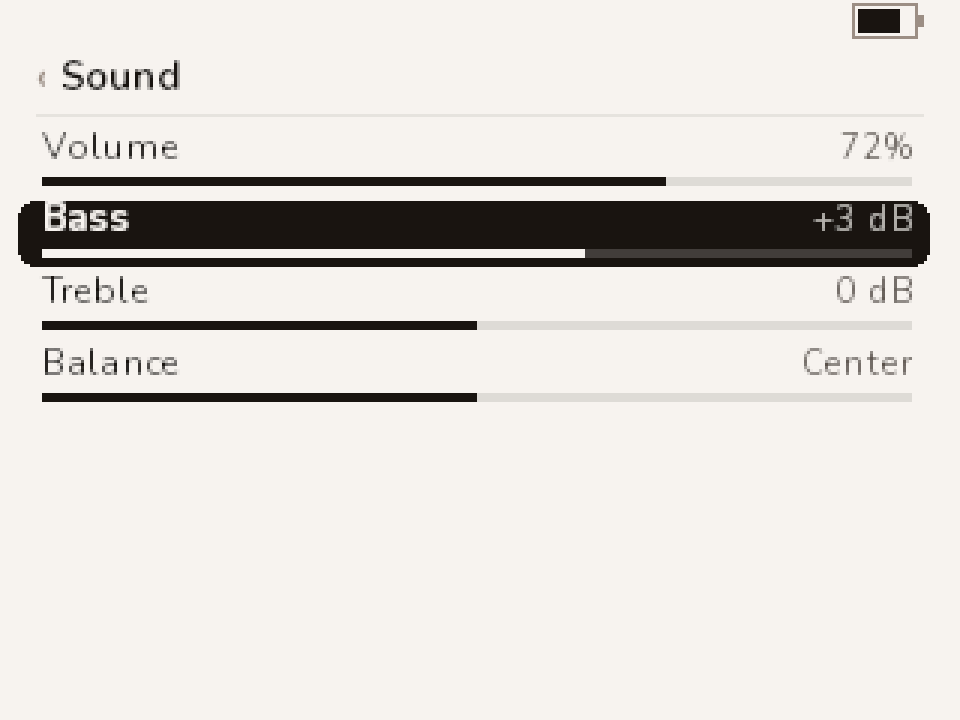
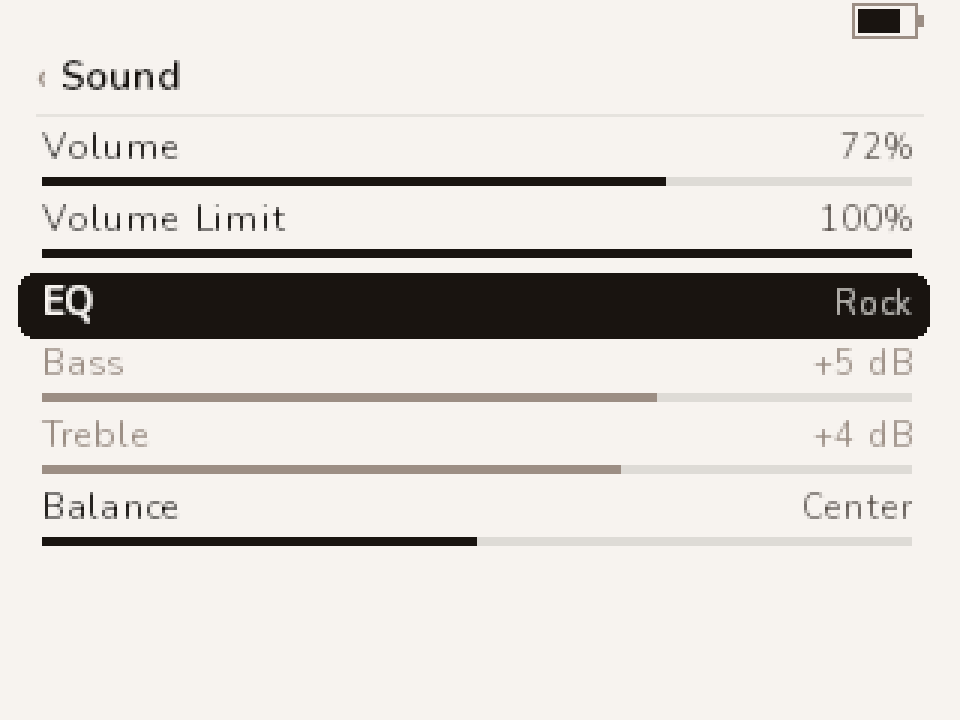
docs: the Volume Limit and the EQ presets, in the guide and the gallery
The user guide's Sound bullet becomes four: what the limit does (the
triangle, the 10% floor, that it is not a lock and not a certification),
what the eighteen EQ values are, what a boosting curve costs in level, and
why Bass and Treble grey out under a preset. The level bullet gives the
real numbers — 3 to 7 dB by preset, up to 12 dB for Bass or Treble at
maximum — because "slightly quieter" was not true, and it says outright
that Loudness, at 7 dB, is the quietest setting on the list despite its
name. Now Playing's Volume paragraph gains the marker, with a new
volume_limit.png beside volume.png.

render.py mirrors both painters: volume_overlay takes the limit and draws
the same three rects, screen_sound draws six rows with a SELECT row and
the locked look, and screen_volume_limit is the plate at a limit of 60.
sound.png (EQ Rock, Bass/Treble greyed) and settings.gif regenerated; the
build-stamped stills deliberately left alone.

STATUS gets the dated UNFLASHED entry with the bench list, now including a
datasheet check of its own for the EQ2-EQ4 centres and the EQxBW polarity,
and the three things that can only be settled on the device: those codes,
where the digital volume sits relative to the EQ, and whether the
ADC->DAC path flip pops.

Changed region(s): [[0.0, 0.275, 0.9688, 0.7639]]

diff --git a/docs/screens/render.py b/docs/screens/render.py
@@ -862,7 +862,7 @@ def screen_detail(sel=DETAIL_SEL):
 
 
 def _now_playing_base(vol_overlay=None, elapsed=73, total=182, locked=False,
-                      sleep=None):
+                      sleep=None, vol_limit=100):
     sc = Screen()
     # top status row
     sc.text(12, 15, "Now Playing", bold_11, INK)
@@ -899,7 +899,7 @@ def _now_playing_base(vol_overlay=None, elapsed=73, total=182, locked=False,
     elif fw > 0:
         sc.fill_rect(pbx, by, fw, bh, INK)
     if vol_overlay is not None:
-        volume_overlay(sc, vol_overlay)
+        volume_overlay(sc, vol_overlay, vol_limit)
     return sc
 
 
@@ -926,7 +926,7 @@ def draw_speaker(sc, sx, sy, c, vol):
         arc(9, 5)
 
 
-def volume_overlay(sc, vol):
+def volume_overlay(sc, vol, limit=100):
     PX, PY, PW, PH = 60, 101, 200, 32
     sc.fill_round_rect_aa(PX, PY, PW, PH, 8, PLATE)
     draw_speaker(sc, PX + 16, PY + PH // 2, INK, vol)
@@ -937,6 +937,14 @@ def volume_overlay(sc, vol):
     sc.fill_rect(bx, by, bw, bh, TRK)
     fw = max(0, min(bw, bw * vol // 100))
     sc.fill_rect(bx, by, fw, bh, INK)
+    # Volume Limit marker: a 5x3 triangle, apex down, on the track's top edge
+    # at the ceiling (main.c volume_overlay_render). The bar keeps its 0..100
+    # scale, so the marker is where the wheel stops.
+    if limit < 100:
+        mx = bx + bw * limit // 100
+        sc.fill_rect(mx - 2, by - 4, 5, 1, INK)
+        sc.fill_rect(mx - 1, by - 3, 3, 1, INK)
+        sc.fill_rect(mx, by - 2, 1, 1, INK)
     sc.text_right(PX + PW - 14, PY + PH // 2 + 4, str(vol), bold_11, INK)
 
 
@@ -946,6 +954,12 @@ def screen_nowplaying():
 
 def screen_volume():
     return _now_playing_base(vol_overlay=78).img
+
+
+def screen_volume_limit():
+    """The same plate with Volume Limit set to 60: the wheel is pinned at the
+    ceiling and the triangle says why."""
+    return _now_playing_base(vol_overlay=60, vol_limit=60).img
 
 
 # -- Hold banner -------------------------------------------------------------
@@ -1417,7 +1431,7 @@ def gif_settings():
     settles on the seven-theme picker."""
     def sound_vol(v):
         rows = list(SOUND_ROWS)
-        rows[0] = ("Volume", "%d%%" % v, v, 100)
+        rows[0] = ("Volume", "%d%%" % v, v, 100, False)
         return screen_sound(rows=rows, sel_row=0)
     vals = [20, 35, 50, 65, 80, 92]
     spec = [(sound_vol(20), 3, 150)]
@@ -1740,34 +1754,46 @@ def screen_diag():
     return sc.img
 
 
+# (label, value, num, den, locked) — den 0 means a SELECT row (no bar).
+# Shown with an EQ preset ACTIVE, which is the state that needs explaining:
+# Rock owns both codec shelves, so Bass and Treble read its gains and render
+# greyed (ui/screen_settings.c list_render + settings_row_locked).
 SOUND_ROWS = [
-    # (label, value, num, den)
-    ("Volume", "72%", 72, 100),
-    ("Bass", "+3 dB", 3 + 12, 24),
-    ("Treble", "0 dB", 0 + 12, 24),
-    ("Balance", "Center", 0 + 100, 200),
+    ("Volume", "72%", 72, 100, False),
+    ("Volume Limit", "100%", 100, 100, False),
+    ("EQ", "Rock", 0, 0, False),
+    ("Bass", "+5 dB", 5 + 12, 24, True),
+    ("Treble", "+4 dB", 4 + 12, 24, True),
+    ("Balance", "Center", 0 + 100, 200, False),
 ]
-SOUND_SEL = 1   # Bass (boosted)
+SOUND_SEL = 2   # EQ
 
 def screen_sound(rows=None, sel_row=SOUND_SEL):
     rows = rows if rows is not None else SOUND_ROWS
     sc = Screen()
     header(sc, "Sound", back=True)
     status_strip(sc)                 # main.c settings_render_cur
-    for r, (label, val, num, den) in enumerate(rows):
+    for r, (label, val, num, den, locked) in enumerate(rows):
         ry = LIST_Y0 + r * ROW_H
         sel = (r == sel_row)
         if sel:
             _sel_bar(sc, LIST_Y0, ROW_H, r)
         fg = SEL_FG if sel else INK
         rightc = SEL_SUB if sel else MUTED_D
+        if locked:
+            fg = rightc = SEL_SUB if sel else MUTED2
+        if den <= 0:                 # SELECT row: label + value, centred
+            sc.text(14, ry + 15, label, FONT_HEADER if sel else FONT_ROW, fg)
+            sc.text_right(W - 16, ry + 15, val, regular_11, rightc)
+            continue
         sc.text(14, ry + 11, label, FONT_HEADER if sel else FONT_ROW, fg)
         sc.text_right(W - 16, ry + 11, val, regular_11, rightc)
         # slider bar
         bx, bw, by, bh = 14, W - 16 - 14, ry + 17, 3
         sc.fill_rect(bx, by, bw, bh, SEL_TRK if sel else TRK)
         fw = max(0, min(bw, bw * num // den))
-        sc.fill_rect(bx, by, fw, bh, SEL_FG if sel else INK)
+        fillc = (SEL_SUB if sel else MUTED2) if locked else (SEL_FG if sel else INK)
+        sc.fill_rect(bx, by, fw, bh, fillc)
     return sc.img
 
 
@@ -2065,6 +2091,7 @@ def main():
     outputs.append(save_png(screen_genres(), "genres.png"))
     outputs.append(save_png(screen_about(), "about.png"))
     outputs.append(save_png(screen_volume(), "volume.png"))
+    outputs.append(save_png(screen_volume_limit(), "volume_limit.png"))
     outputs.append(save_png(screen_lock(), "hold_unlocked.png"))
     outputs.append(save_png(screen_locked(), "hold_locked.png"))
     outputs.append(save_png(screen_locked_list(), "hold_locked_list.png"))

diff --git a/STATUS.md b/STATUS.md
@@ -349,6 +349,79 @@ What changed (see `git log 054c722..`):
   **UNFLASHED.** Bench: Albums (`F-1 Trillion`, `Taylor Swift`), the Now
   Playing title in bold 18, About — read `Fa`, `Ta`, `LT` at arm's length.
 
+- **Volume Limit and EQ presets (2026-09-16)** — Settings → Sound grew from
+  four rows to six. **Volume Limit** is a 10..100 ceiling (100 = no limit);
+  `settings_volume_clamp()` in `ui/settings.c` is the ONE statement of the
+  rule, called by both the Settings slider and the Now Playing wheel, so the
+  two cannot disagree, and lowering the ceiling under the current volume
+  pulls the volume down in the same call. The volume plate keeps its 0..100
+  scale and draws a 5x3 ink triangle over the bar at the limit (the 5G
+  Features Guide's own marker) — inside `VOL_PLATE_*`, so the pinned
+  3200-word present still covers it. A wheel tick that cannot move the
+  volume still raises the plate (the marker is the explanation) but no
+  longer earns a disk write, which also ends the rail-pinned touches the
+  old code did at 0 and 100. **EQ** is a SELECT cycling Off + 17 presets from
+  a new host-built table (`ui/eq.c`, 18 names, five band gains and five
+  centre codes each — ours, nothing copied). A preset is a full five-band
+  curve on the codec's own EQ through the new `hal_eq_set()`, which is now
+  the single register encoder: it pre-attenuates `LDACVOL/RDACVOL` by the
+  curve's largest boost BEFORE writing the gains, so a full-scale FLAC
+  cannot clip the digital path, and `hal_codec_restore()` replays the whole
+  cached curve after the per-track codec reset. The DACVOL pair and the band
+  gains are ordered by the SIGN of the pre-cut change — cut the DAC first
+  going up, take the gains off first coming down — so the attenuation is
+  never smaller than the boost that is live, including mid-call; both
+  directions are pinned as literal bus bytes. `hal_tone_set` is gone: at EQ
+  Off the curve `ui/eq.c` hands over IS the tone control (flat mids on centre
+  code 00, the shelves on 105 Hz / 6.9 kHz), so it emits the same words it
+  always did — plus that pre-cut, which means **Bass +6 now plays a touch
+  quieter overall than it did**. That is the correction, not a regression. While a preset is on, Bass and Treble are
+  locked: they render greyed showing the PRESET's shelf gains, the wheel is
+  refused and SELECT does not enter edit mode, while the user's own tone
+  sits untouched underneath and returns at Off. Record: payload 44 → 48
+  under the same version 2 (`volume_limit` u8 at 44, `eq` u8 at 45, u16
+  reserved) — `config.c`, `tools/make_config.py`, `core/cli`'s `config.go`
+  and all three goldens moved in one commit. A 44-byte record (every device
+  in the field) decodes as limit 100 / EQ Off with its volume untouched; a
+  limit byte of 0 means UNSET → 100, never the 10% floor. New host coverage:
+  `tests/ui/eq_test.c` (the whole table against an independently typed
+  fixture), the Sound half of `settings_test`, the sound tail in
+  `config_test`, and `volume_trace_test`'s mock-bus pins for the flat curve
+  (byte-identical to the shipped tone path), Bass Booster and the restore
+  replay. Gallery: `sound.png` redrawn with EQ Rock active, new
+  `volume_limit.png`, `settings.gif` regenerated. **UNFLASHED.**
+  **Device-only, not observed here:** the EQ2–EQ4 centre-frequency table and
+  the `EQxBW` polarity now in `wm8758.h` / `05-audio.md` were written down
+  from MEMORY of the WM8758B datasheet — not read out of the PDF and not
+  heard on the device — and both are marked "verify". A wrong centre code is
+  a band centred somewhere else; a wrong `EQ_BW_NARROW` polarity (this build
+  assumes 0 = wide) makes every preset's three peaks narrow instead of wide.
+  Either is a differently shaped preset, never a fault. The two SHELF corners
+  are not in doubt — the shipped tone control has been using them; whether the EQ saturates
+  before or after the DAC-volume stage (if the digital volume sits AFTER the
+  EQ, the pre-cut protects the DAC input but not the EQ accumulator); and
+  pop/zipper on the `EQ3DMODE` ADC→DAC flip, since none of these registers
+  has a zero-cross latch (fallback if it is audible: soft-mute around
+  `hal_eq_set`, `DACCTRL_SOFTMUTE`, already used by `wm8758_mute`).
+  Bench list:
+  (a) set Volume Limit 40 while playing at 70 — the volume drops to 40 at
+  once, the plate shows 40 with the triangle at 40%, the wheel cannot pass
+  it; Menu out and back, and a power cycle, keep the limit;
+  (b) limit back to 100 — triangle gone, the wheel reaches 100;
+  (c) EQ Bass Booster on a bass-heavy full-scale FLAC — audibly more bass,
+  **no clipping or crackle**, overall level a touch below Off; Bass/Treble
+  greyed at +6 / 0 and the wheel will not move them; Off restores the
+  user's own tone;
+  (d) cycle every preset while playing — no pop, no dropout at the path
+  switch; Bass Reducer and Treble Reducer are audibly cuts;
+  (e) track change and pause/resume keep the preset (the restore hook);
+  (f) Reset Settings — limit 100, EQ Off, saved;
+  (g) **datasheet check, off the device:** read R18–R22 in the WM8758B PDF and
+  confirm the EQ2/EQ3/EQ4 centre-frequency rows and that `EQxBW` is 0 = wide.
+  If the BW polarity is inverted, one constant (`EQ_BW_NARROW`) and nothing
+  else changes — every preset writes bit 8 clear, so the whole table flips
+  from wide peaks to narrow ones with no code change.
+
 **Device verdicts so far (2026-09-13 evening):** audio noise fixed
 (VMID); panel sleep white on wake (off); suspend wakes with the PLL park
 off; PMU power-off + wake OK; gauge, scrollbar, seven themes, white blank

diff --git a/docs/USER_GUIDE.md b/docs/USER_GUIDE.md
@@ -88,6 +88,7 @@ scrolls while it is selected.
   <tr>
     <td><img src="screens/nowplaying.png" width="260" alt="Now Playing"></td>
     <td><img src="screens/volume.png" width="260" alt="Volume"></td>
+    <td><img src="screens/volume_limit.png" width="260" alt="Volume at the limit"></td>
   </tr>
 </table>
 
@@ -95,7 +96,9 @@ The cover, then the eyebrow `TRACK 3 OF 12` (your place in the queue), the title
 album. At the bottom the elapsed time, the time remaining, and the progress bar.
 
 **Volume.** Turn the wheel. A bar appears for a moment; the speaker icon grows sound waves as it
-goes up and shows a cross at zero.
+goes up and shows a cross at zero. If you have set a Volume Limit, a small triangle sits over the
+bar at the limit and the wheel stops there — the bar still runs to 100, so you can see how much
+you are giving up.
 
 **Scrubbing.** Tap Select. The wheel now moves the play position five seconds per click, more per
 click the faster you turn. The left time shows where you are aiming and the right time shows how
@@ -143,8 +146,32 @@ until the device sleeps or powers off, so leaving Settings never makes you wait.
   out, playback pauses and the device sleeps as if you had held Play; the next press wakes it
   paused, where you left off. It is not remembered across a restart, and any sleep or a Reset
   turns it off.
-- **Sound.** Volume, Bass and Treble (plus or minus 12 dB), and Balance. These drive the WM8758B
+- **Sound.** Volume, Volume Limit, EQ, Bass, Treble and Balance. These drive the WM8758B codec
   directly.
+  - **Volume Limit** is a ceiling on the volume, 10% to 100%, and 100% means no limit. Set it
+    below where the volume is now and the volume comes down with it at once. On Now Playing a
+    triangle marks it on the volume bar and the wheel will not go past it. There is no
+    combination or passcode: anyone who can reach Settings can move it back. It caps what the
+    firmware asks of the headphone amplifier — a different pair of headphones, or an EQ preset
+    that boosts, still changes how loud it actually is.
+  - **EQ** is Off or one of seventeen presets: Acoustic, Bass Booster, Bass Reducer, Classical,
+    Dance, Electronic, Hip-Hop, Jazz, Loudness, Pop, R&B, Rock, Small Speakers, Spoken Word,
+    Treble Booster, Treble Reducer, Vocal Booster. Select cycles through them. A preset is a full
+    five-band curve on the codec's own equaliser.
+  - **A boosting preset plays quieter overall, on purpose.** The whole track is turned down by
+    exactly the preset's largest boost, so a loud passage cannot distort where the curve lifts it.
+    The amount is not small: 3 dB for Jazz; 4 for Acoustic, Classical, Pop, Spoken Word and Vocal
+    Booster; 5 for Dance, Electronic, R&B, Rock and Small Speakers; 6 for Bass Booster, Hip-Hop and
+    Treble Booster; **7 for Loudness**, which makes Loudness the quietest setting on the list
+    despite its name — it shapes the curve for quiet listening, it does not add level. Bass Reducer
+    and Treble Reducer only cut, so they cost nothing. Turn the wheel up to make up the difference;
+    that is what the drop is there to leave room for.
+  - **Bass and Treble** are plus or minus 12 dB. While an EQ preset is on they are greyed and show
+    the preset's own bass and treble, because the codec has one bass control and one treble
+    control and the preset is using them; the wheel will not move them. Set EQ to Off and your own
+    values come straight back, exactly as you left them. They pay for a boost the same way a preset
+    does — Bass at +6 turns everything down 6 dB, and at +12 a full 12 dB, which is a large drop
+    (roughly half as loud). A cut costs nothing.
 - **Theme.** Seven palettes. The current one is marked; Select switches at once.
 - **Display.** Backlight: Never, or 5, 10, 15, 30 or 60 seconds after the last input. At the
   timeout the light drops to a quarter of your brightness, and fifteen seconds later it goes off.

diff --git a/CHANGELOG.md b/CHANGELOG.md
@@ -3,6 +3,24 @@
 Each release lists what changed on the device since the previous one. Versions are git tags;
 the boot screen and Settings → About show the one the device runs.
 
+## Unreleased
+
+- **Volume Limit.** Settings → Sound has a ceiling on the volume, 10% to 100%, with 100% meaning
+  no limit. Lower it below where the volume is and the volume comes down with it at once. On Now
+  Playing a small triangle marks it on the volume bar and the wheel stops there; the bar keeps its
+  full 0–100 scale. No combination — anyone who can reach Settings can move it back.
+- **EQ presets.** Off plus seventeen: Acoustic, Bass Booster, Bass Reducer, Classical, Dance,
+  Electronic, Hip-Hop, Jazz, Loudness, Pop, R&B, Rock, Small Speakers, Spoken Word, Treble
+  Booster, Treble Reducer, Vocal Booster. Each is a full five-band curve on the WM8758B's own
+  equaliser. While a preset is on, Bass and Treble show its bass and treble greyed and the wheel
+  will not move them; set EQ to Off and your own values come straight back.
+- A boosting curve — a preset or Bass/Treble — is now played with the DAC turned down by exactly
+  the size of the boost, so a loud track cannot distort. That is 3 to 7 dB depending on the preset
+  (7 for Loudness, which is therefore the quietest of them), and up to 12 dB for Bass or Treble at
+  their maximum. Bass +6 is 6 dB quieter overall than it was.
+- The settings record grew from 44 to 48 payload bytes for those two fields, under the same
+  version: a record written by any earlier build still loads, and loads as "no limit, EQ off".
+
 ## v0.1.3 — 2026-09-15
 
 Since v0.1.2. The firmware change is one marker; the release is the host app.

diff --git a/docs/screens/README.md b/docs/screens/README.md
@@ -123,7 +123,7 @@ A screenshot here is a claim about what the device draws. So:
 | `artists.png` `albums.png` `songs.png` `genres.png` `allsongs.png` | library lists | `screen_*` |
 | `playlists.png` | Music → Playlists list | `screen_playlists` |
 | `detail.png` | album detail (tracklist) | `screen_detail` |
-| `nowplaying.png` `volume.png` | Now Playing, volume plate | `screen_nowplaying`, `screen_volume` |
+| `nowplaying.png` `volume.png` `volume_limit.png` | Now Playing, volume plate, the plate at a Volume Limit (triangle marker) | `screen_nowplaying`, `screen_volume`, `screen_volume_limit` |
 | `hold_unlocked.png` `hold_locked.png` `hold_locked_list.png` | Hold-switch banners (Now Playing row / list chrome) | `screen_lock`, `screen_locked`, `screen_locked_list` |
 | `settings.png` `playback.png` `sound.png` `clicker.png` `theme.png` | Settings (the Playback still carries the strip's `SLEEP` token) | `screen_settings`, `screen_playback`, `screen_sound`, `screen_clicker`, `screen_theme` |
 | `about.png` `bootdetails.png` | About dashboard, Boot Details | `screen_about`, `screen_diag` |

diff --git a/README.md b/README.md
@@ -93,8 +93,8 @@ Seven palettes, swapped live from Settings. Same layout, same type, different in
 
 ### Settings
 
-Playback, Sound, Theme, Display, Clicker, About, Boot Details, Disk Mode, Reset. Everything but
-the diagnostics is saved to the disk.
+Playback, Sound (volume limit, EQ presets, tone), Theme, Display, Clicker, About, Boot Details,
+Disk Mode, Reset. Everything but the diagnostics is saved to the disk.
 
 <p align="center"><img src="docs/screens/settings.gif" alt="a Sound slider, then the theme picker" width="360"></p>
 
